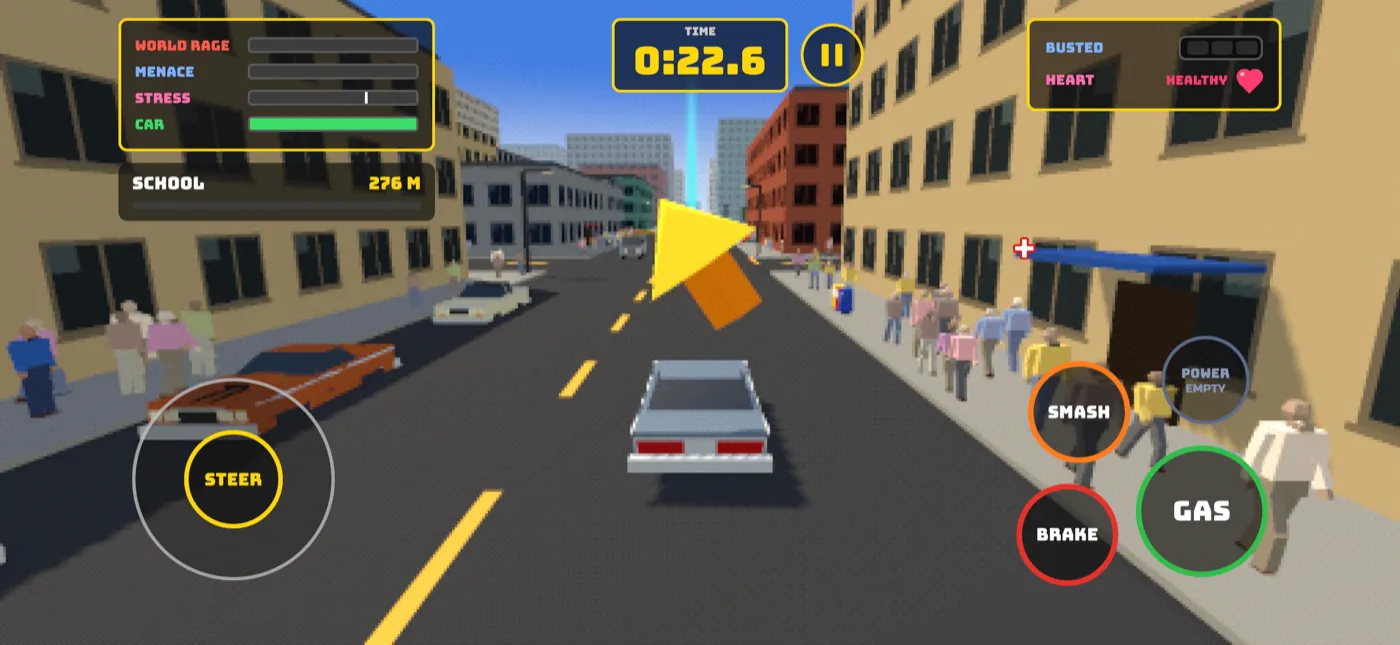
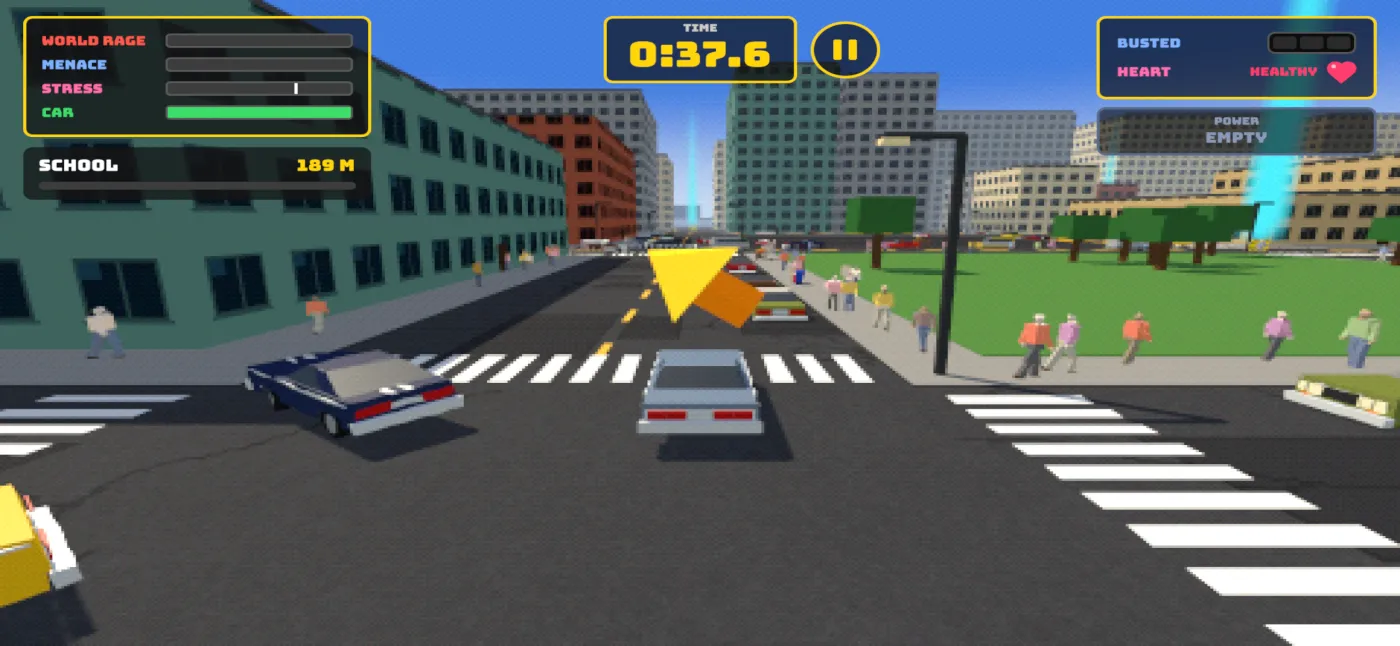
RAGE-188: retake all website screenshots at the current look (lamp light, textures, garage, shop, controller glyphs); add Pizza Delivery, Late for Work, Super Juggernaut, shop and controller shots
Claude-Session: https://claude.ai/code/session_019FBRyUCXDrEohAyset3cUJ

diff --git a/index.html b/index.html
@@ -38,20 +38,25 @@
 <div class="grid two" style="margin-top:1.5rem">
 <figure class="shot"><img src="img/night-city.webp" width="1400" height="646" alt="Road Rage gameplay: a car driving through a rainy neon city at night" loading="lazy" decoding="async"><figcaption>Night City: neon, rain and a shift with nothing better to do.</figcaption></figure>
 <figure class="shot"><img src="img/mountain-pass.webp" width="1400" height="646" alt="Road Rage gameplay: a car on a mountain highway with a guardrail" loading="lazy" decoding="async"><figcaption>Mountain Pass.</figcaption></figure>
-<figure class="shot"><img src="img/street-race.webp" width="1400" height="646" alt="Road Rage gameplay: a street race with a checkpoint arrow" loading="lazy" decoding="async"><figcaption>Street Race: 4th of 4, checkpoint 1.</figcaption></figure>
+<figure class="shot"><img src="img/street-race.webp" width="1400" height="646" alt="Road Rage gameplay: a street race with a checkpoint arrow" loading="lazy" decoding="async"><figcaption>Street Race: first of four, checkpoint 1.</figcaption></figure>
 <figure class="shot"><img src="img/school-run.webp" width="1400" height="646" alt="Road Rage gameplay: a car driving past a crowded sidewalk" loading="lazy" decoding="async"><figcaption>The School Run.</figcaption></figure>
 </div>
 <div class="grid two" style="margin-top:1.5rem">
-<figure class="shot"><img src="img/garage.webp" width="1400" height="646" alt="Road Rage garage screen with the orange Muscle car, upgrade bars and prices in Gas Money" loading="lazy" decoding="async"><figcaption>The garage: pick a car, spend your Gas Money, fill the upgrade bars.</figcaption></figure>
-<figure class="shot"><img src="img/upgrade-xray.webp" width="1400" height="646" alt="Road Rage upgrade show: the car turns to an X-ray outline while new suspension parts swap in" loading="lazy" decoding="async"><figcaption>The upgrade show: the car goes X-ray while the new parts go in.</figcaption></figure>
-<figure class="shot"><img src="img/upgrade-done.webp" width="1400" height="646" alt="Road Rage upgrade show: a SUSPENSION LV 3 banner over the orange Muscle car in the garage bay" loading="lazy" decoding="async"><figcaption>Suspension level 3, and the rusty parts on the floor.</figcaption></figure>
+<figure class="shot"><img src="img/garage.webp" width="1400" height="646" alt="Road Rage garage screen with the blue Drifter, upgrade bars and prices in Gas Money" loading="lazy" decoding="async"><figcaption>The garage: pick a car, spend your Gas Money, fill the upgrade bars.</figcaption></figure>
+<figure class="shot"><img src="img/upgrade-xray.webp" width="1400" height="646" alt="Road Rage upgrade show: the car turns to an X-ray outline while a new engine swaps in" loading="lazy" decoding="async"><figcaption>The upgrade show: the car goes X-ray while the new engine goes in.</figcaption></figure>
+<figure class="shot"><img src="img/upgrade-done.webp" width="1400" height="646" alt="Road Rage upgrade show: a SPEED LV 3 banner over the blue Drifter in the garage bay" loading="lazy" decoding="async"><figcaption>Speed level 3, and the rusty old engine on the floor.</figcaption></figure>
 <figure class="shot"><img src="img/muscle-downtown.webp" width="1400" height="646" alt="Road Rage gameplay: an orange Muscle car in downtown traffic" loading="lazy" decoding="async"><figcaption>The orange Muscle car in Downtown traffic.</figcaption></figure>
 <figure class="shot"><img src="img/desert-highway.webp" width="1400" height="646" alt="Road Rage gameplay: a car at speed on the desert highway" loading="lazy" decoding="async"><figcaption>Desert Highway at speed.</figcaption></figure>
 <figure class="shot"><img src="img/night-rain.webp" width="1400" height="646" alt="Road Rage gameplay: a car driving through a rainy neon city at night" loading="lazy" decoding="async"><figcaption>Night City in the rain.</figcaption></figure>
 <figure class="shot"><img src="img/juggernaut.webp" width="1400" height="646" alt="Road Rage gameplay: the Juggernaut power smashing a fruit stand and launching a car" loading="lazy" decoding="async"><figcaption>The Juggernaut power: smash a fruit stand, launch a car.</figcaption></figure>
 <figure class="shot"><img src="img/results.webp" width="1400" height="646" alt="Road Rage results screen with three stars and the Gas Money earned" loading="lazy" decoding="async"><figcaption>Made it: three stars and the Gas Money earned.</figcaption></figure>
 </div>
-<figure class="shot"><img src="img/level-select.webp" width="1400" height="646" alt="Road Rage level select screen with three cars and a list of levels" loading="lazy" decoding="async"><figcaption>The level select. Pick a level, pick a car, hit DRIVE.</figcaption></figure>
+<figure class="shot"><img src="img/pizza-delivery.webp" width="1400" height="646" alt="Road Rage gameplay: delivering a pizza at night with streetlights lighting the walls" loading="lazy" decoding="async"><figcaption>Pizza Delivery after dark: stop at the glowing ring.</figcaption></figure>
+<figure class="shot"><img src="img/late-for-work.webp" width="1400" height="646" alt="Road Rage gameplay: a sunset commute through downtown with a checkpoint arrow" loading="lazy" decoding="async"><figcaption>Late for Work: coffee first, then the office.</figcaption></figure>
+<figure class="shot"><img src="img/super-juggernaut.webp" width="1400" height="646" alt="Road Rage gameplay: Super Juggernaut active with a 30 second timer" loading="lazy" decoding="async"><figcaption>Super Juggernaut: 30 seconds of unstoppable.</figcaption></figure>
+<figure class="shot"><img src="img/shop.webp" width="1400" height="646" alt="Road Rage garage shop with Gas Money packs and Super Juggernaut starts" loading="lazy" decoding="async"><figcaption>The shop: Gas Money packs and Super Juggernaut starts.</figcaption></figure>
+<figure class="shot"><img src="img/controller.webp" width="1400" height="646" alt="Road Rage HUD with PlayStation controller button prompts" loading="lazy" decoding="async"><figcaption>Plays with a controller: PlayStation, Xbox or touch.</figcaption></figure>
+<figure class="shot"><img src="img/level-select.webp" width="1400" height="646" alt="Road Rage level select screen with the car list, best times and a list of levels" loading="lazy" decoding="async"><figcaption>The level select. Pick a level, pick a car, hit DRIVE.</figcaption></figure>
 <h2 id="get">Get the game</h2>
 <div class="card"><p><span class="badge">COMING SOON</span> Road Rage is for iPhone and iPad.</p>
 <p>Want to help test? See the <a href="support.html#testflight">TestFlight note</a> on the support page.</p></div>

diff --git a/press.html b/press.html
@@ -63,6 +63,11 @@
 <a href="img/night-rain.webp"><img src="img/night-rain.webp" width="1400" height="646" alt="Night City in the rain" loading="lazy"></a>
 <a href="img/juggernaut.webp"><img src="img/juggernaut.webp" width="1400" height="646" alt="Juggernaut smash" loading="lazy"></a>
 <a href="img/results.webp"><img src="img/results.webp" width="1400" height="646" alt="Results screen with Gas Money" loading="lazy"></a>
+<a href="img/pizza-delivery.webp"><img src="img/pizza-delivery.webp" width="1400" height="646" alt="Pizza Delivery at night" loading="lazy"></a>
+<a href="img/late-for-work.webp"><img src="img/late-for-work.webp" width="1400" height="646" alt="Late for Work" loading="lazy"></a>
+<a href="img/super-juggernaut.webp"><img src="img/super-juggernaut.webp" width="1400" height="646" alt="Super Juggernaut" loading="lazy"></a>
+<a href="img/shop.webp"><img src="img/shop.webp" width="1400" height="646" alt="Garage shop" loading="lazy"></a>
+<a href="img/controller.webp"><img src="img/controller.webp" width="1400" height="646" alt="Controller prompts in the HUD" loading="lazy"></a>
 <a href="img/level-select.webp"><img src="img/level-select.webp" width="1400" height="646" alt="Level select screen" loading="lazy"></a>
 </div>
 <h2>Logo and colors</h2>
